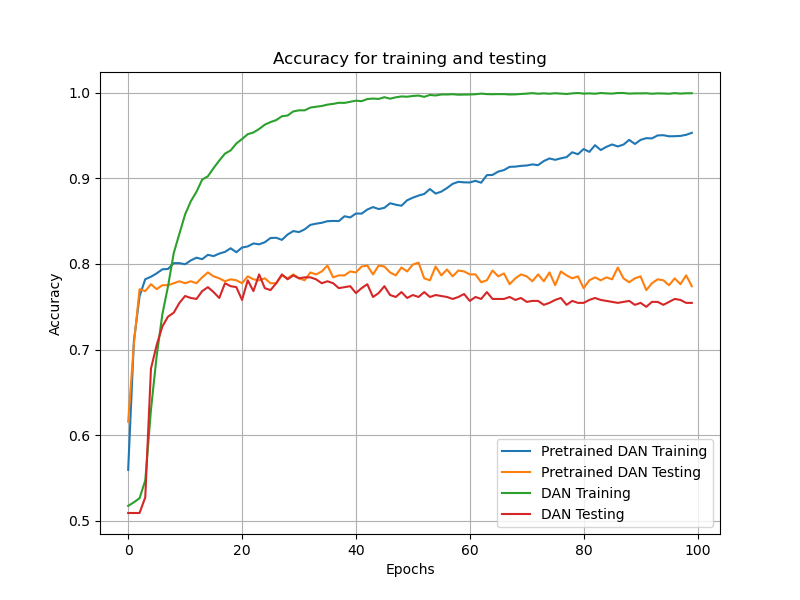
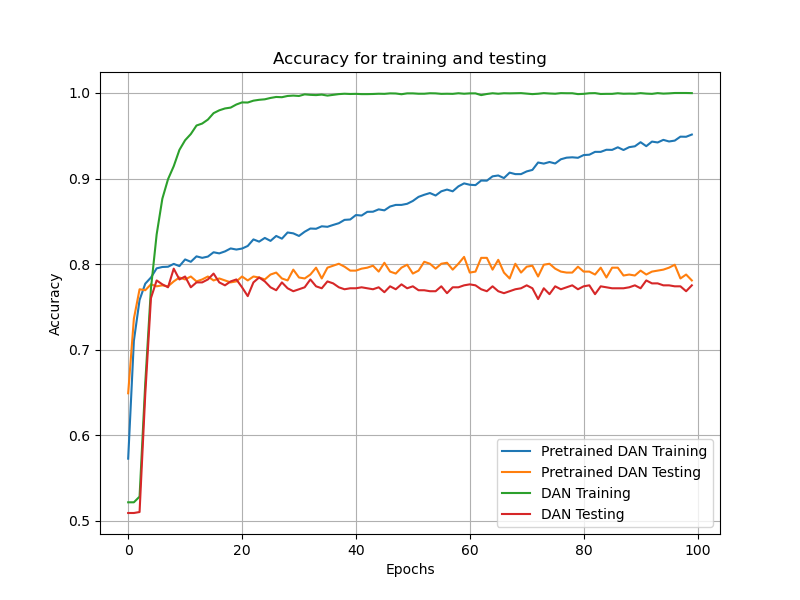
1

diff --git a/CSE256_PA1_FA24/DANmodels.py b/CSE256_PA1_FA24/DANmodels.py
@@ -14,9 +14,10 @@ class SentimentDatasetDAN(Dataset):
         self.examples = read_sentiment_examples(infile)
         self.word_embed = word_embed
         self.labels = torch.tensor([ex.label for ex in self.examples], dtype=torch.long)
-        self.indices = [torch.tensor([self.word_embed.word_indexer.index_of(w) if self.word_embed.word_indexer.index_of(w) != -1 
-                                      else self.word_embed.word_indexer.index_of("UNK")
-                                      for w in ex.words], dtype=torch.long) for ex in self.examples]
+        self.indices = [torch.tensor([self.word_embed.word_indexer.index_of(w) 
+            if self.word_embed.word_indexer.index_of(w) != -1 
+            else self.word_embed.word_indexer.index_of("UNK")
+            for w in ex.words], dtype=torch.long) for ex in self.examples]
         
     def __len__(self):
         return len(self.examples)
@@ -29,7 +30,6 @@ class SentimentDatasetDAN(Dataset):
         indices_padded = pad_sequence(indices, batch_first=True, padding_value=0)  # PAD index assumed to be 0
         labels = torch.tensor(labels, dtype=torch.long)
         return indices_padded, labels
-        
 
 class DAN(nn.Module):
     def __init__(self, embed_size, hidden_size, vocab_size=None, word_embed=None, dropout=0.2, frozen=True):

diff --git a/CSE256_PA1_FA24/main.py b/CSE256_PA1_FA24/main.py
@@ -102,7 +102,7 @@ def main():
     args = parser.parse_args()
 
     device = torch.device("cuda" if torch.cuda.is_available() else "cpu")
-    print(f"Device: {device}")
+    print(f"Using device: {device}")
 
     if args.model == "BOW":
         # Load dataset
@@ -185,7 +185,7 @@ def main():
         print("DAN")
         start_time = time.time()
         rand_init_train_accuracy, rand_init_test_accuracy, rand_init_train_loss, rand_init_test_loss = experiment(
-            DAN(embed_size=50, hidden_size=100, vocab_size=word_embeddings.word_indexer.__len__()), train_loader, test_loader, device)
+            DAN(embed_size=200, hidden_size=70, vocab_size=word_embeddings.word_indexer.__len__()), train_loader, test_loader, device)
         print(f"Finished training in : {time.time() - start_time} seconds")
 
         # Plot the accuracy
